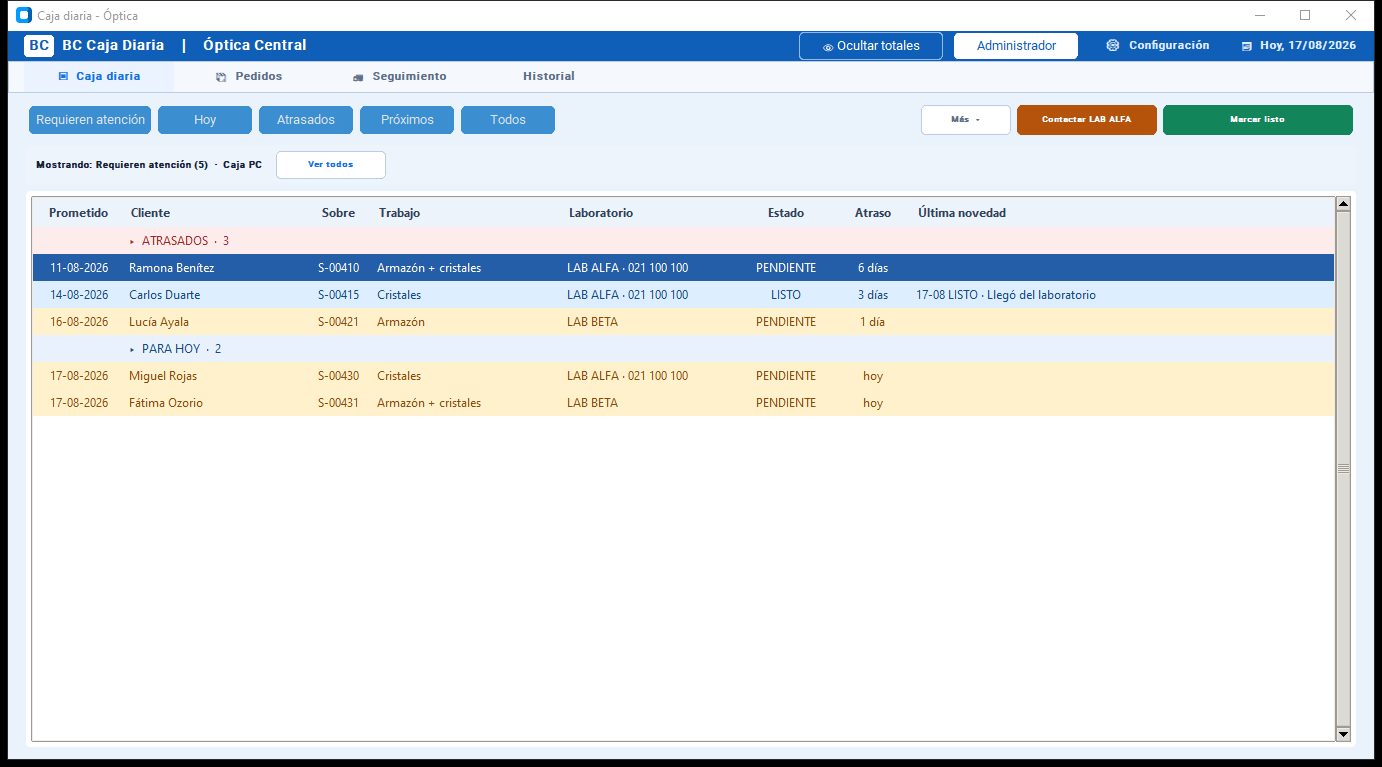
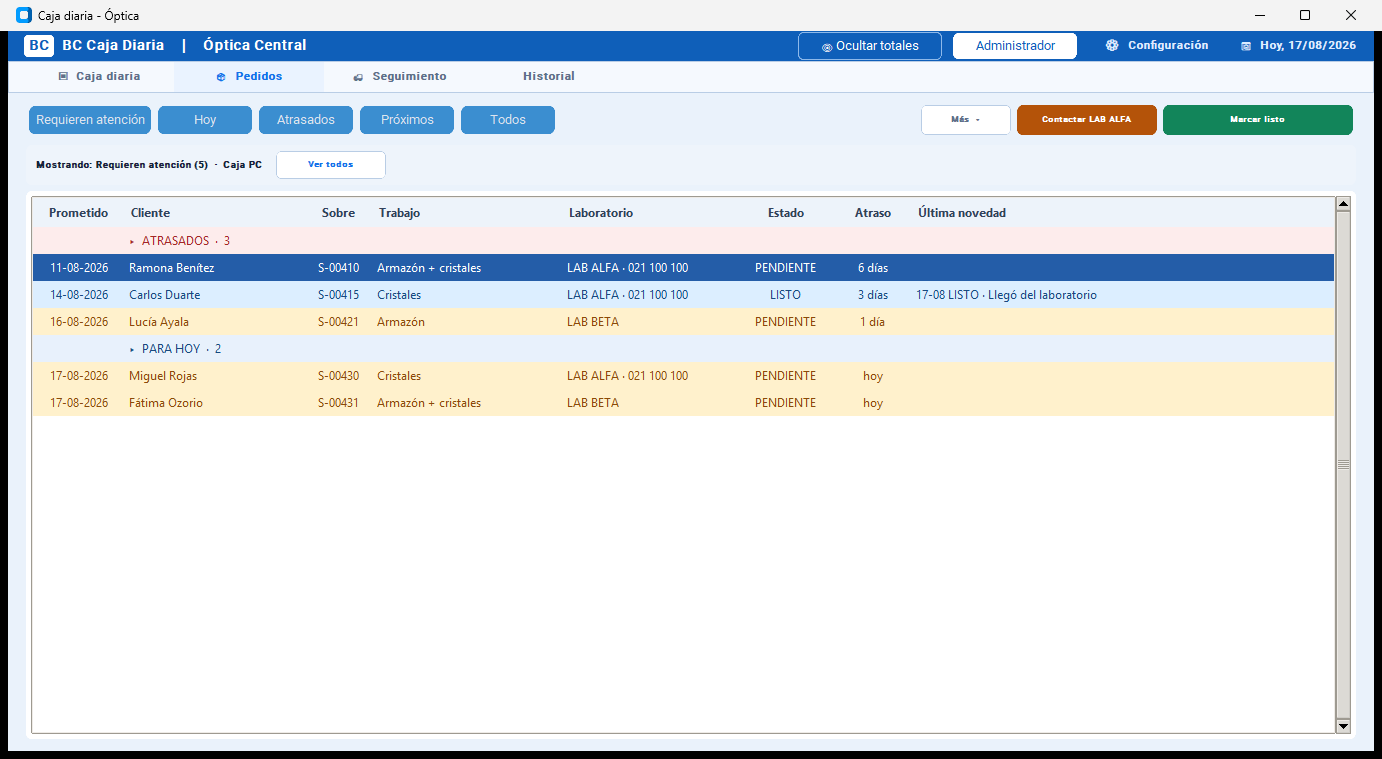
feat(caja): navigate Pedidos the way the operator does in the smoke
The gate came back observed on point 10: the grid showed Pedidos but the bar
still highlighted Caja diaria. The product was fine. The app hides the
CTkTabview segmented button and every real navigation goes through
seleccionar_pestana(), which moves the tab and repaints the bar; the smoke was
calling pestanas.set() directly, so it only did the bottom half.

The smoke now presses the navigation button and fails closed if Pedidos does not
end up highlighted or if another tab stays lit. A negative control with the old
navigation aborts without saving the capture. Production code untouched.

Also declares the manifest hash convention -sources normalized to LF- because
four entries were hashed as CRLF and two as LF, so verification only held on the
machine that wrote it.

diff --git a/tools/capture_caja_pedidos_rc30.py b/tools/capture_caja_pedidos_rc30.py
@@ -28,6 +28,16 @@ from modulos.caja_diaria.domain.models import SaleItem
 
 COLUMNAS = tuple(clave for clave, _t, _a, _an in CajaDiaria.ORDER_COLUMN_SPECS)
 
+#: La barra visible es la de botones propios: la app oculta el segmented button
+#: del CTkTabview (CajaDiaria.py:1017) y navega por seleccionar_pestaña(), que
+#: mueve la pestaña y repinta el resaltado. Tocar pestañas.set() haría sólo la
+#: mitad de abajo y dejaría el resaltado en la pestaña anterior, así que el
+#: smoke navega como la operadora: tocando el botón.
+NAV_PEDIDOS = "📦  Pedidos"
+NAV_OTRAS = ("▣  Caja diaria", "🚚  Seguimiento", "Historial")
+#: Fondo del botón de navegación activo (CajaDiaria.py:1027).
+COLOR_NAV_ACTIVA = "#EAF3FF"
+
 
 def descendants(widget):
     for child in widget.winfo_children():
@@ -92,8 +102,20 @@ def luminancia(color):
 def verificar(root) -> dict:
     root.update_idletasks(); root.update()
     pestañas = next(w for w in descendants(root) if isinstance(w, ctk.CTkTabview))
-    pestañas.set("Pedidos")
+    nav_pedidos = boton(root, NAV_PEDIDOS)
+    nav_pedidos.invoke()
     root.update_idletasks(); root.update()
+
+    # Las dos mitades de la navegación tienen que haberse movido juntas.
+    if pestañas.get() != "Pedidos":
+        raise RuntimeError(f"la pestaña activa no es Pedidos: {pestañas.get()!r}")
+    if str(nav_pedidos.cget("fg_color")) != COLOR_NAV_ACTIVA:
+        raise RuntimeError(
+            f"Pedidos no quedó resaltado en la barra: {nav_pedidos.cget('fg_color')!r}")
+    encendidas = [t for t in NAV_OTRAS
+                  if str(boton(root, t).cget("fg_color")) == COLOR_NAV_ACTIVA]
+    if encendidas:
+        raise RuntimeError(f"otra pestaña sigue resaltada junto a Pedidos: {encendidas}")
 
     grilla = grilla_pedidos(root)
     filas = list(grilla.get_children())
@@ -158,7 +180,8 @@ def verificar(root) -> dict:
     grilla.selection_set(pendiente)
     grilla.event_generate("<<TreeviewSelect>>")
     root.update_idletasks(); root.update()
-    return {"grupos": encabezados, "pedidos": len(reales),
+    return {"nav": f"{pestañas.get()} resaltada, {len(NAV_OTRAS)} apagadas",
+            "grupos": encabezados, "pedidos": len(reales),
             "laboratorio": str(grilla.set(con_lab[0], "laboratorio")),
             "atrasos": sorted(a for a in atrasos if a)}
 
@@ -184,6 +207,7 @@ def main() -> int:
             metricas = verificar(root)
             capturar_ventana(root, salida)
             print(f"BC_CAJA_PEDIDOS_RC30_SMOKE_OK resolution={resolucion} "
+                  f"nav=\"{metricas['nav']}\" "
                   f"grupos={metricas['grupos']} pedidos={metricas['pedidos']} "
                   f"laboratorio=\"{metricas['laboratorio']}\" "
                   f"atrasos={metricas['atrasos']} emails=0 new_closures=0")

diff --git a/artifacts/BC-CAJA-PEDIDOS-OPERATIVOS-RC30-001/ARTIFACT_CONSISTENCY.md b/artifacts/BC-CAJA-PEDIDOS-OPERATIVOS-RC30-001/ARTIFACT_CONSISTENCY.md
@@ -4,6 +4,29 @@ Fuentes verificadas 6 sha256 ok
 Evidencia visual 5 sha256 ok (Pedidos 1920x1080 y 1366x768, alerta RC28, Seguimiento RC27)
 Evidencia visual fail-closed: el smoke aborta si el contrato no se cumple
 Pruebas 682 + 4 subpruebas (669 baseline + 13 nuevas)
+
+REVISION 2 (gate abierto desde equipo de desarrollo, sin tocar la Optica)
+Convencion de hash declarada: fuentes con saltos normalizados a LF, evidencia visual en
+  byte crudo. Antes cuatro fuentes estaban hasheadas en CRLF y dos en LF, asi que la
+  verificacion daba mismatch fuera del equipo de origen. Contenido sin cambios
+Punto 10 del gate resuelto: era defecto del harness, no del producto. El smoke navegaba
+  con pestanas.set(Pedidos), que mueve el CTkTabview pero no repinta la barra de
+  navegacion propia; la app oculta el segmented button (CajaDiaria.py:1017) y toda
+  navegacion real pasa por seleccionar_pestana(), que mueve las dos mitades
+Harness corregido: navega tocando el boton, y falla cerrado si Pedidos no queda resaltado
+  o si otra pestana sigue encendida. Control negativo ejecutado: con la navegacion vieja
+  aborta y no guarda captura. Codigo productivo sin tocar
+Evidencia visual de Pedidos regenerada en 1920x1080 y 1366x768, con Pedidos resaltado
+Focalizadas 13 + contrato visual UX004 3 = 16 passed
+Suite completa 680 passed + 2 failed en tests/gestion_central/test_ui_interactions.py.
+  Reproducidas identicas en el baseline 291fe40: deuda preexistente ajena a Caja,
+  registrada como BC-GESTION-CENTRAL-UI-TIMING-FLAKE-001, no corregida aqui
+Hallazgo adyacente NO corregido: CajaDiaria.py:3253 (editar desde Historial) usa
+  pestanas.set directo y deja el resaltado en Historial. Preexistente en 291fe40, fuera
+  del slice de Pedidos
+BC-Core local desactualizado (recovery/command-center-safe-exit-ops-20260811, 7991df3) y
+  sin Headless Executor. Sincronizar desde el origin/main canonico antes de la proxima
+  mision de codigo que pretenda usarlo. No se mezclo con este gate
 Migraciones 21 sin agregar ninguna
 Reglas economicas de Caja sin cambios
 Autoridad del tronco preservada: estado anclado a la fila, alerta con filtro transportado, sucursal, Seguimiento y NextAction

diff --git a/artifacts/BC-CAJA-PEDIDOS-OPERATIVOS-RC30-001/GATE_VERDICT.md b/artifacts/BC-CAJA-PEDIDOS-OPERATIVOS-RC30-001/GATE_VERDICT.md
@@ -1,0 +1,26 @@
+# HUMAN_GATE-PEDIDOS-RC30-001 — PASS
+
+Generacion 2 del gate. Los 11 puntos aprobados por veredicto humano.
+
+## Sobre que se dio el veredicto
+
+Evidencia visual regenerada tras corregir el harness: `pedidos-operativos-1920x1080.png`
+y `pedidos-operativos-1366x768.png`, con `Pedidos` efectivamente resaltado en la barra de
+navegacion.
+
+La generacion 1 quedo observada en el punto 10: la grilla mostraba Pedidos pero la barra
+resaltaba `Caja diaria`. Se determino por codigo que era defecto del harness y no del
+producto —la app oculta el segmented button del CTkTabview (`CajaDiaria.py:1017`) y toda
+navegacion real pasa por `seleccionar_pestana()`, que mueve las dos mitades— y se corrigio
+solo el harness, con control negativo que demuestra que ahora falla cerrado.
+
+## Condiciones de la ejecucion
+
+Fixtures sinteticas, 0 correos, 0 cierres, sin base de datos productiva y sin instalar
+nada. La via de captura es la que el propio `HUMAN_GATE.md` ofrece, asi que el estandar no
+se degrado por ejecutarlo fuera de la Optica.
+
+## Que habilita
+
+Empaquetar `1.0.0-rc.31`. La instalacion y la validacion post-install siguen pendientes:
+no pueden hacerse en este equipo, ver `INSTALL_READINESS.md`.
